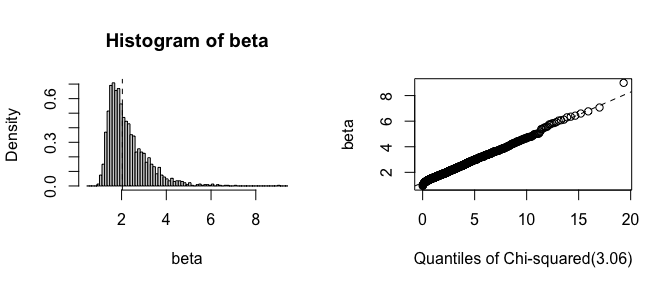
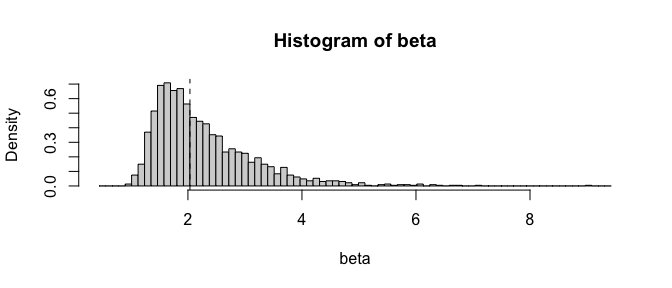
Updates

diff --git a/NEWS.md b/NEWS.md
@@ -1,6 +1,12 @@
 `fwb` News and Updates
 ======
 
+# `fwb` (development version)
+
+* `wtype` can now be set to `"beta"` to sample weights from a $\text{Beta}(1/2,3/2)$ distribution and `"power"` to sample from a $\text{Beta}(\sqrt{2} - 1, 1)$ distribution as described by [Owen (2025)](https://doi.org/10.48550/arXiv.2508.10083).
+
+* Added code of conduct to README.
+
 # `fwb` 0.5.1
 
 * Fixed a bug where computing confidence intervals would yield an error about unused arguments for R versions prior to 4.5.0. Thanks to @vincentarelbundock. (#6)
